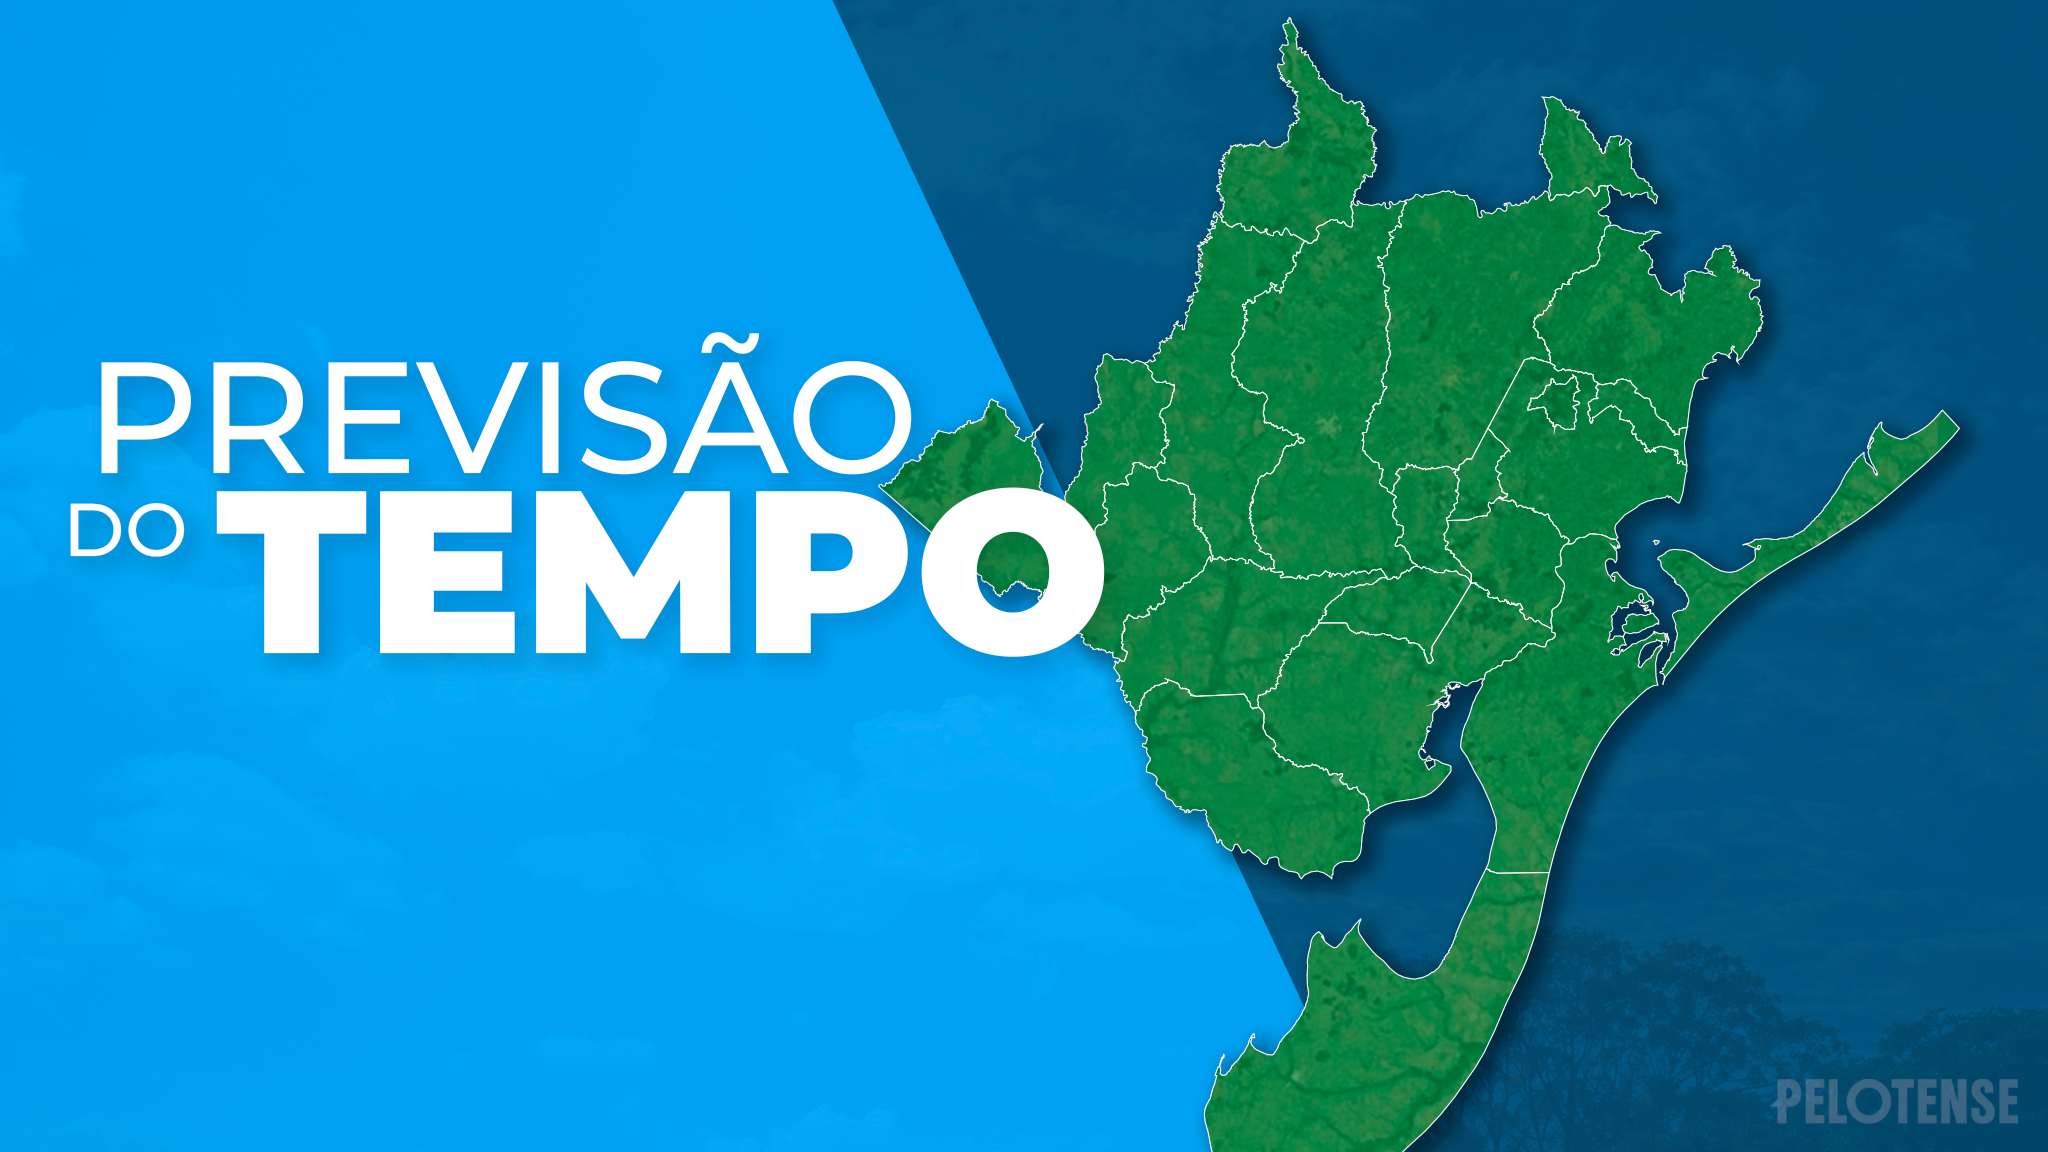
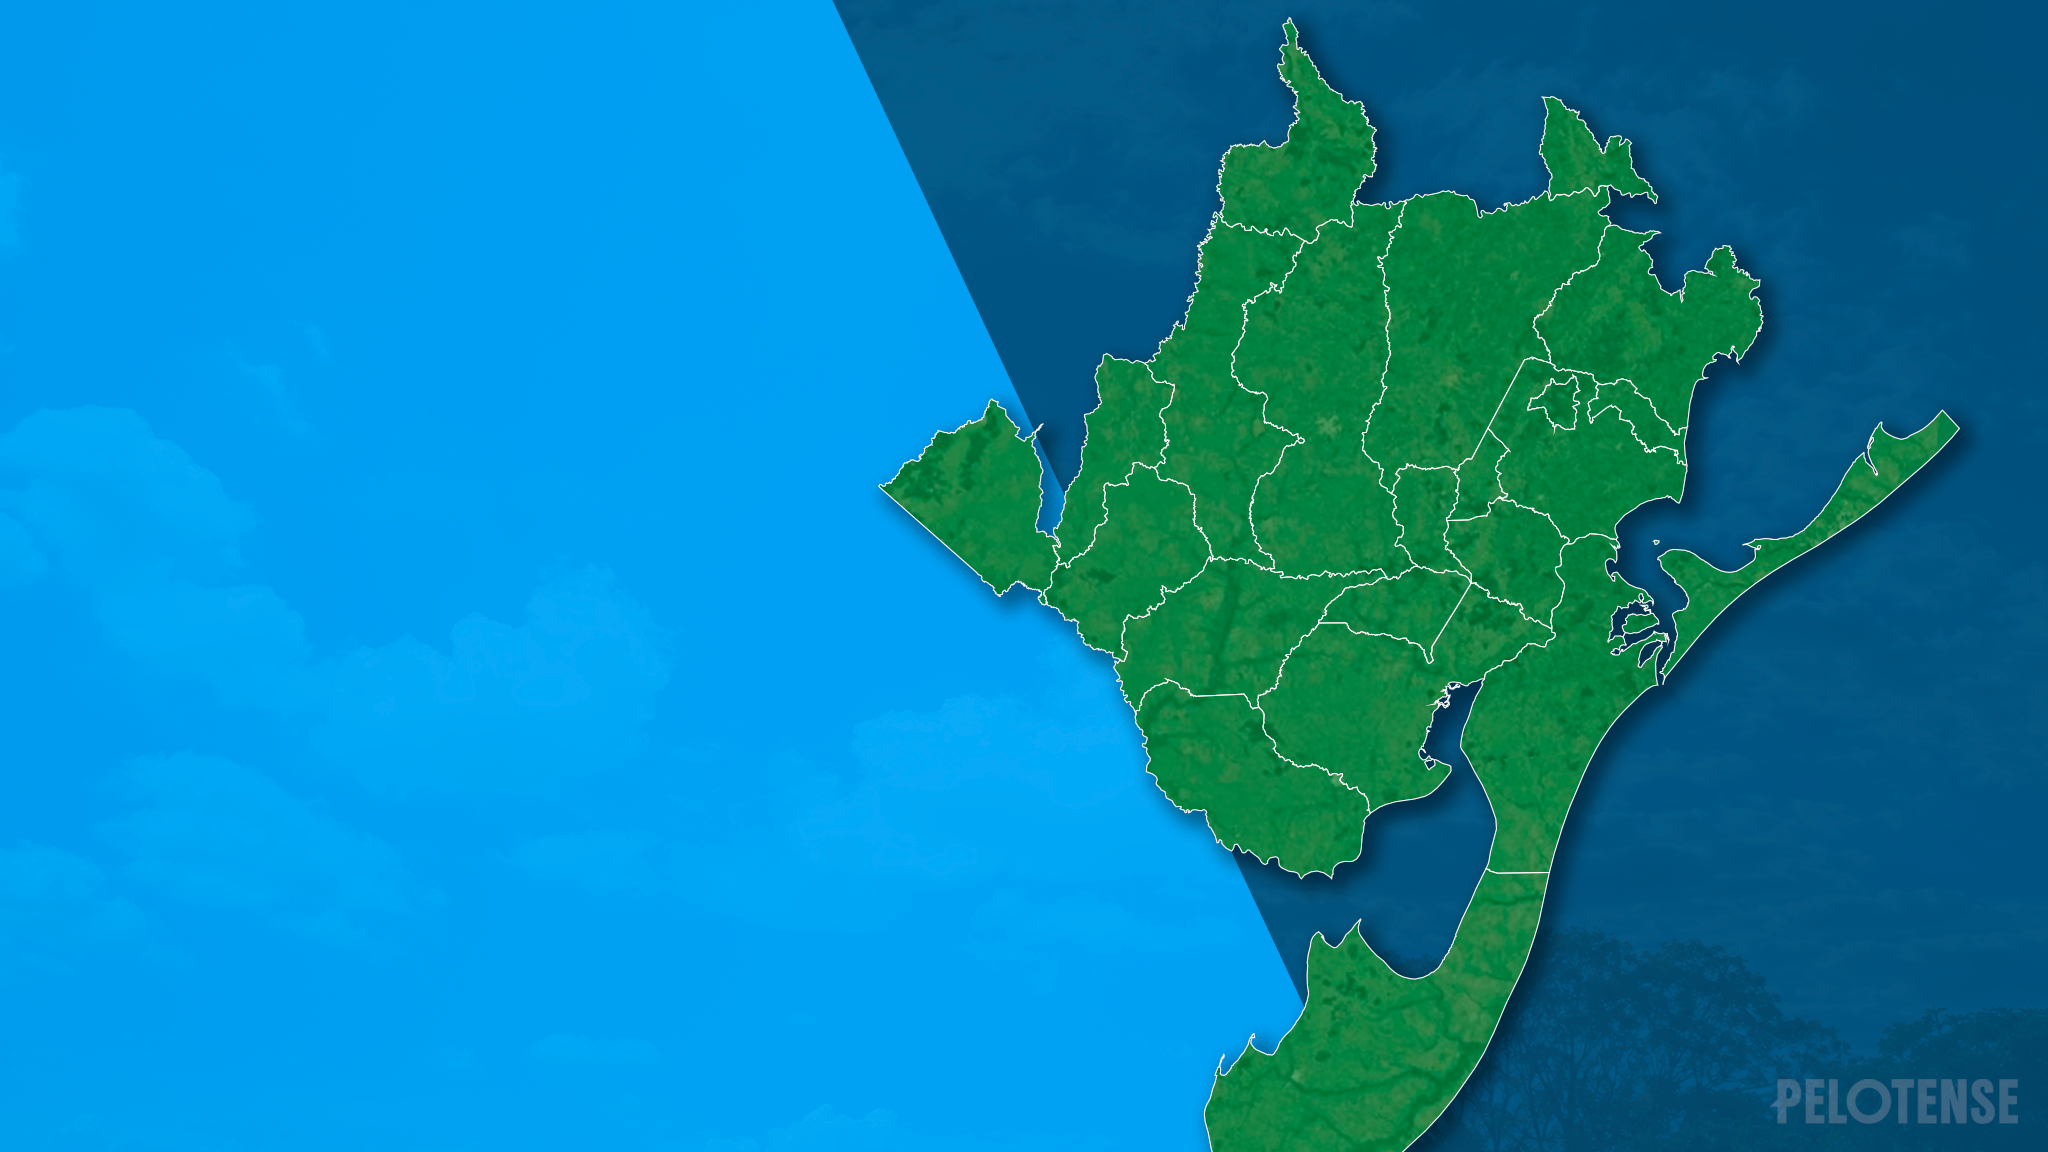
change layout and background

Changed region(s): [[0.0312, 0.2812, 0.5625, 0.5938], [0.4375, 0.3438, 0.4688, 0.375]]

diff --git a/src/constant/animation.js b/src/constant/animation.js
@@ -1,0 +1,25 @@
+export const ANIMATION = {
+  duration: 0.4,
+  stagger: 0.15,
+  cardDayDelay: 0,
+  ease: 'easeOut',
+};
+
+export const cardAnimation = (delay) => ({
+  initial: {
+    opacity: 0,
+    y: -20,
+    scaleY: 0.8,
+    transformOrigin: 'top center',
+  },
+  animate: {
+    opacity: 1,
+    y: 0,
+    scaleY: 1,
+  },
+  transition: {
+    duration: ANIMATION.duration,
+    delay,
+    ease: ANIMATION.ease,
+  },
+});

diff --git a/src/pages/pages.styled.jsx b/src/pages/pages.styled.jsx
@@ -55,8 +55,9 @@ export const CardDay = styled.div`
 
   position: absolute;
 
-  bottom: 200px;
-  left: 420px;
+  //bottom: 120px;
+  top: 40px;
+  left: 800px;
 
   padding: 10px;
   background: rgb(255, 255, 255);